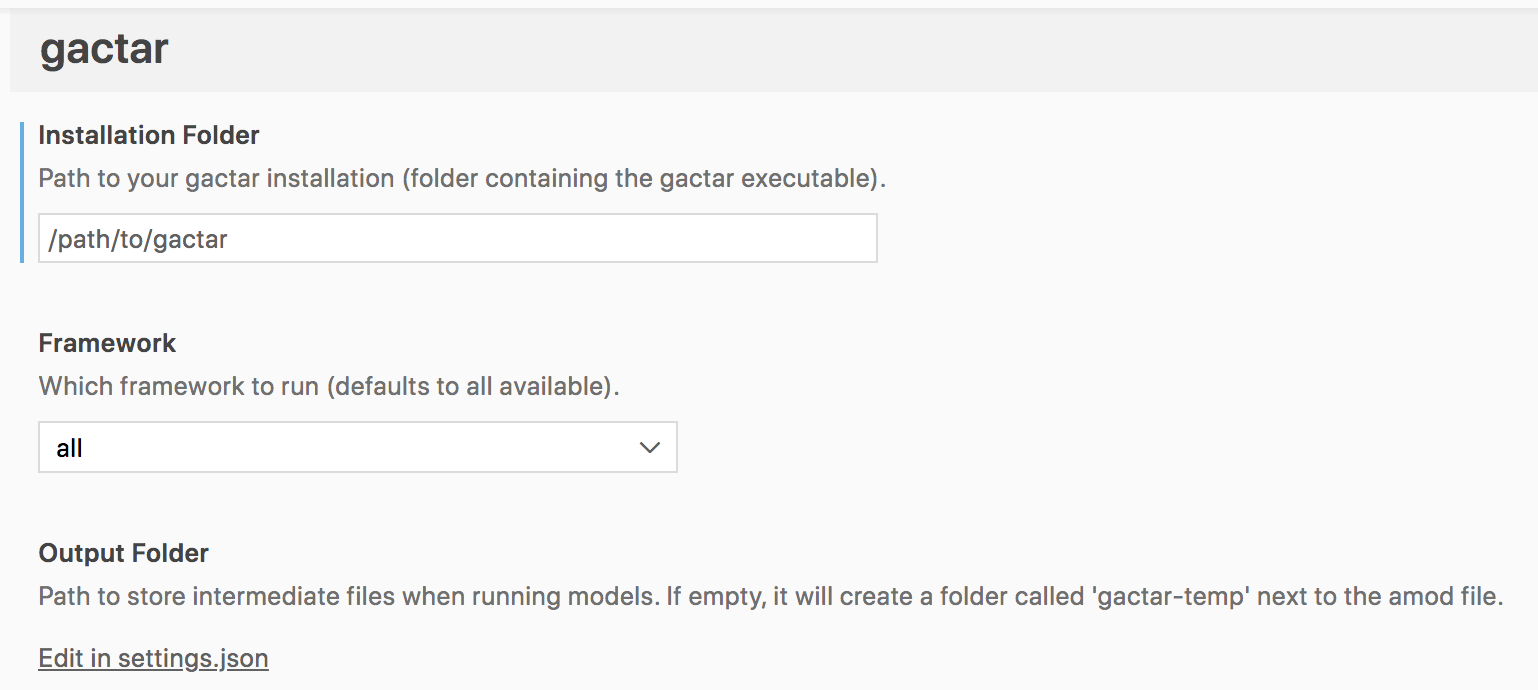
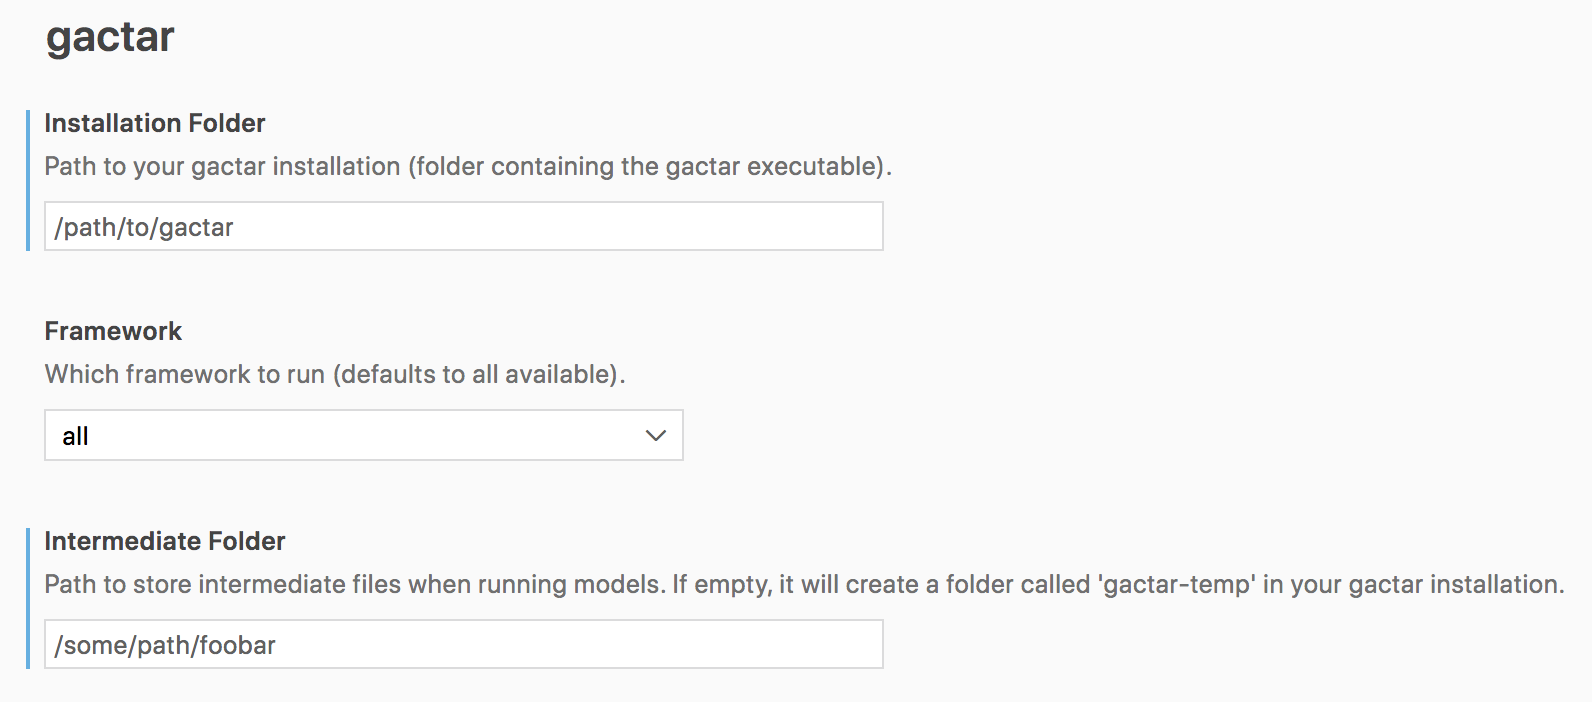
{doc} Update docs for 0.2.0 release

diff --git a/README.md b/README.md
@@ -39,7 +39,17 @@ If you have gactar installed, you can point VS Code at your installation and run
 
 ![command palette](images/command-palette.png)
 
-The results will show up in VSCode's integrated terminal.
+The results will show up in VSCode's Output Panel.
+
+### Restart The Server
+
+If you need to restart the gactar server, you can run the command `gactar: Restart Server`.
+
+### Highlight Problems
+
+After running amod files, any errors will be reported in the Problems Panel and they will be highlighted in the code.
+
+![problems](images/problems.png)
 
 ## Configuration
 
@@ -50,7 +60,7 @@ Or you can set them directly in your `settings.json` file:
 
 - `"gactar.installationFolder"` (required to run gactar) - Path to your gactar installation (folder containing the gactar executable).
 - `"gactar.framework"` - Which framework to run. Allowed: `ccm`, `pyactr`, `vanilla`, or `all`.
-- `"gactar.outputFolder"` - Path to store intermediate files (the generated code for each framework) when running models. If empty, it will create a folder called 'gactar-temp' next to the amod file.
+- `"gactar.intermediateFolder"` - Path to store intermediate files (the generated code for each framework) when running models. If empty, it will create a folder called 'gactar-temp' in your gactar installation.
 
 ## gactar Reference
 

diff --git a/CHANGELOG.md b/CHANGELOG.md
@@ -4,7 +4,20 @@ All notable changes to the gactar VS Code extension will be documented in this f
 
 Check [Keep a Changelog](http://keepachangelog.com/) for recommendations on how to structure this file.
 
-## 0.1.0 - 2022-05-19
+## [0.2.0](https://github.com/asmaloney/gactar-vscode/releases/tag/v0.2.0) - 2022-05-26
+
+### Added
+
+- Use the web server and Output Panel instead of the command line with the Terminal. ([#1](https://github.com/asmaloney/gactar-vscode/pull/1))
+- Now highlights errors in amod files and adds them to the Problems Panel.
+- Command: `gactar: Restart Server` will restart the gactar web server.
+
+### Changed
+
+- Config: `gactar.outputFolder` was renamed to `gactar.intermediateFolder`.
+- Configured eslint to run on the code.
+
+## [0.1.0](https://github.com/asmaloney/gactar-vscode/releases/tag/v0.1.0) - 2022-05-19
 
 ### Added
 
